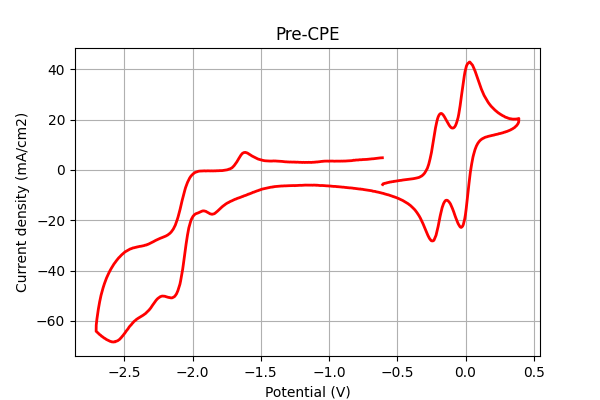
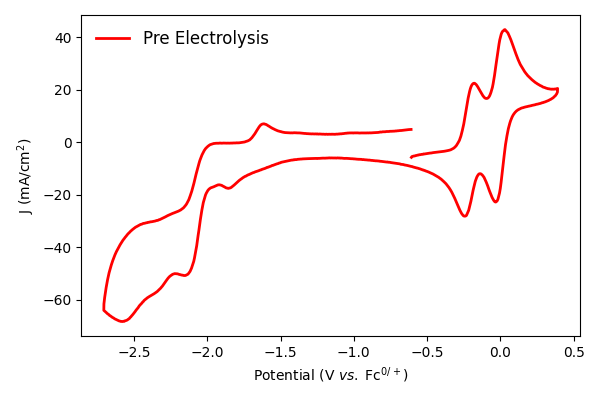
Updated code for changing parameters in the plot

diff --git a/Pre-CPE.py b/Pre-CPE.py
@@ -10,14 +10,14 @@ Current= data["Cur"]
 
 # Step 3c: Plot the CV curve
 plt.figure(figsize=(6,4))
-plt.plot(Potential, Current, color='red', linewidth=2)
-plt.title("Pre-CPE")
-plt.xlabel("Potential (V)")
-plt.ylabel("Current density (mA/cm2)")
-plt.grid(True)
+plt.plot(Potential, Current, color='red', linewidth=2, label="Pre Electrolysis")
+plt.legend(loc='upper left',
+fontsize=12,   
+ frameon=False 
+)
+plt.xlabel("Potential (V $\t{vs.}$ Fc$^{0/+}$)")
+plt.ylabel("J (mA/cm$^2$)")
 
+plt.tight_layout()  # Automatically adjusts spacing so nothing is cut off
 # Step 3d: Save the plot as an image
 plt.savefig("Pre-CPE.png")
-
-# Step 3e: Show the plot
-plt.show()

diff --git a/TestCV.py b/TestCV.py
@@ -15,4 +15,5 @@ plt.title("Test Cyclic Voltammetry Curve")
 plt.xlabel("Potential (V)")
 plt.ylabel("Current (µA)")
 plt.grid(True)
+plt.savefig("TestCV_plot.png")
 plt.show()
